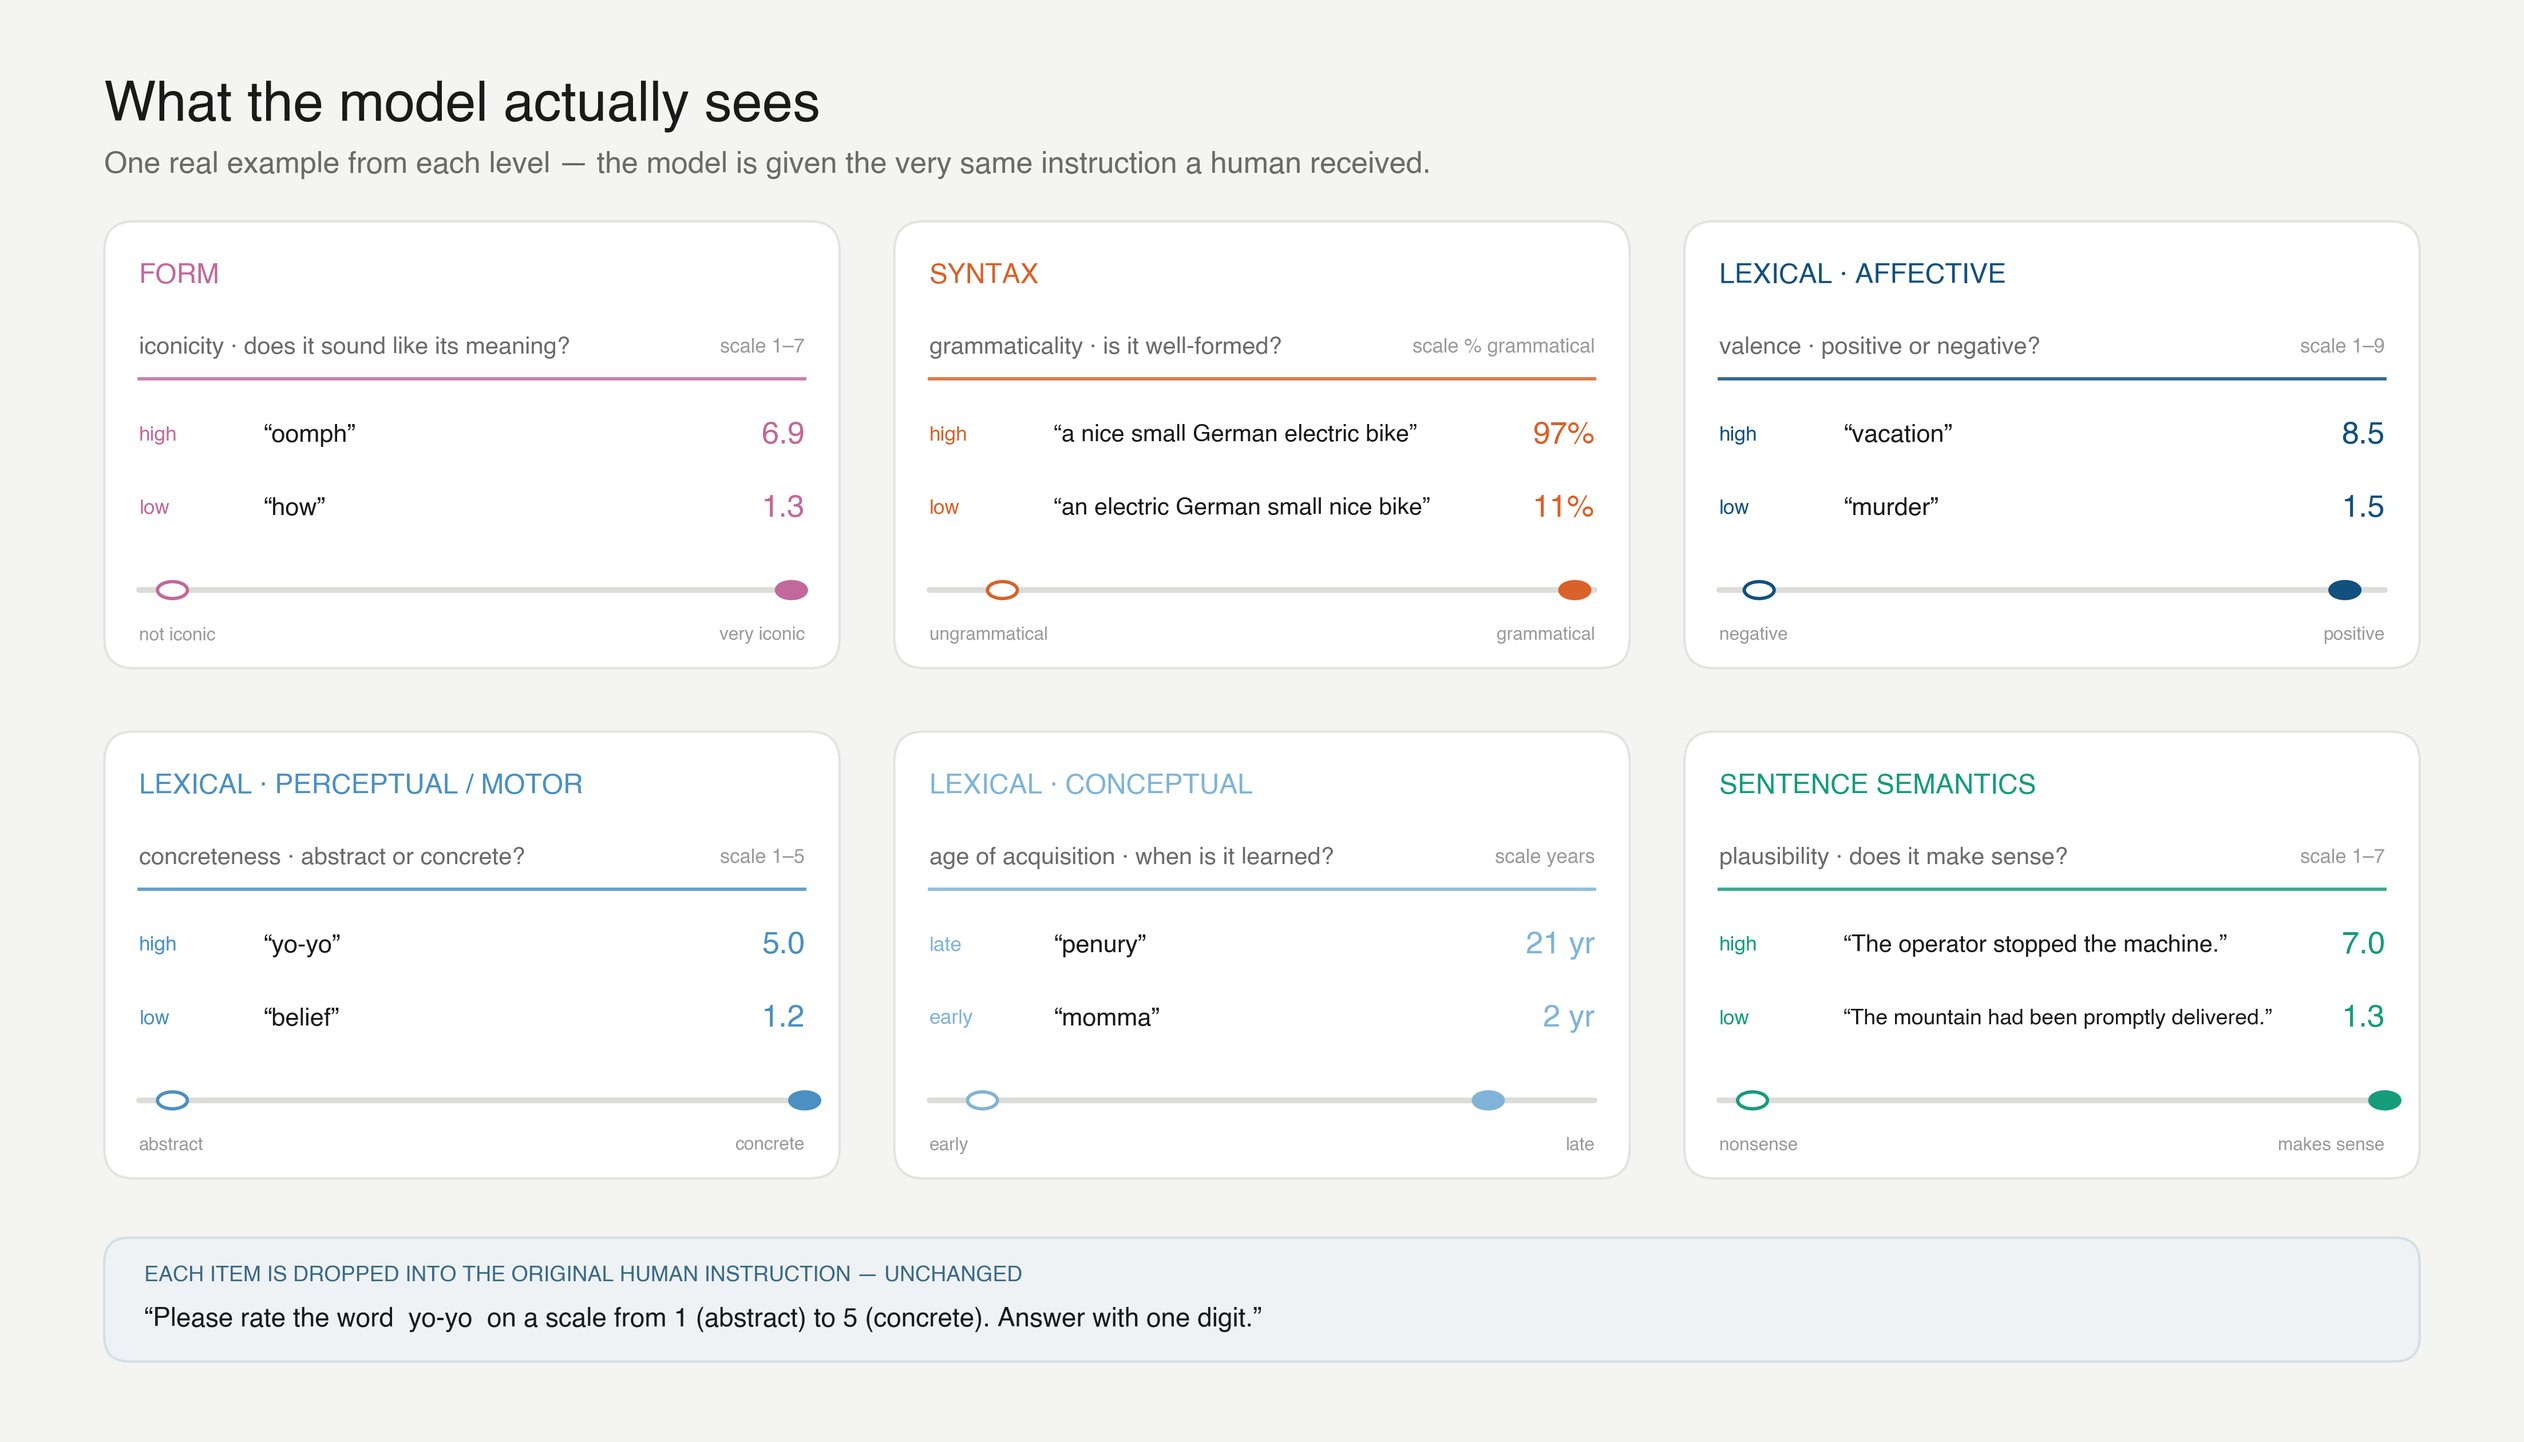
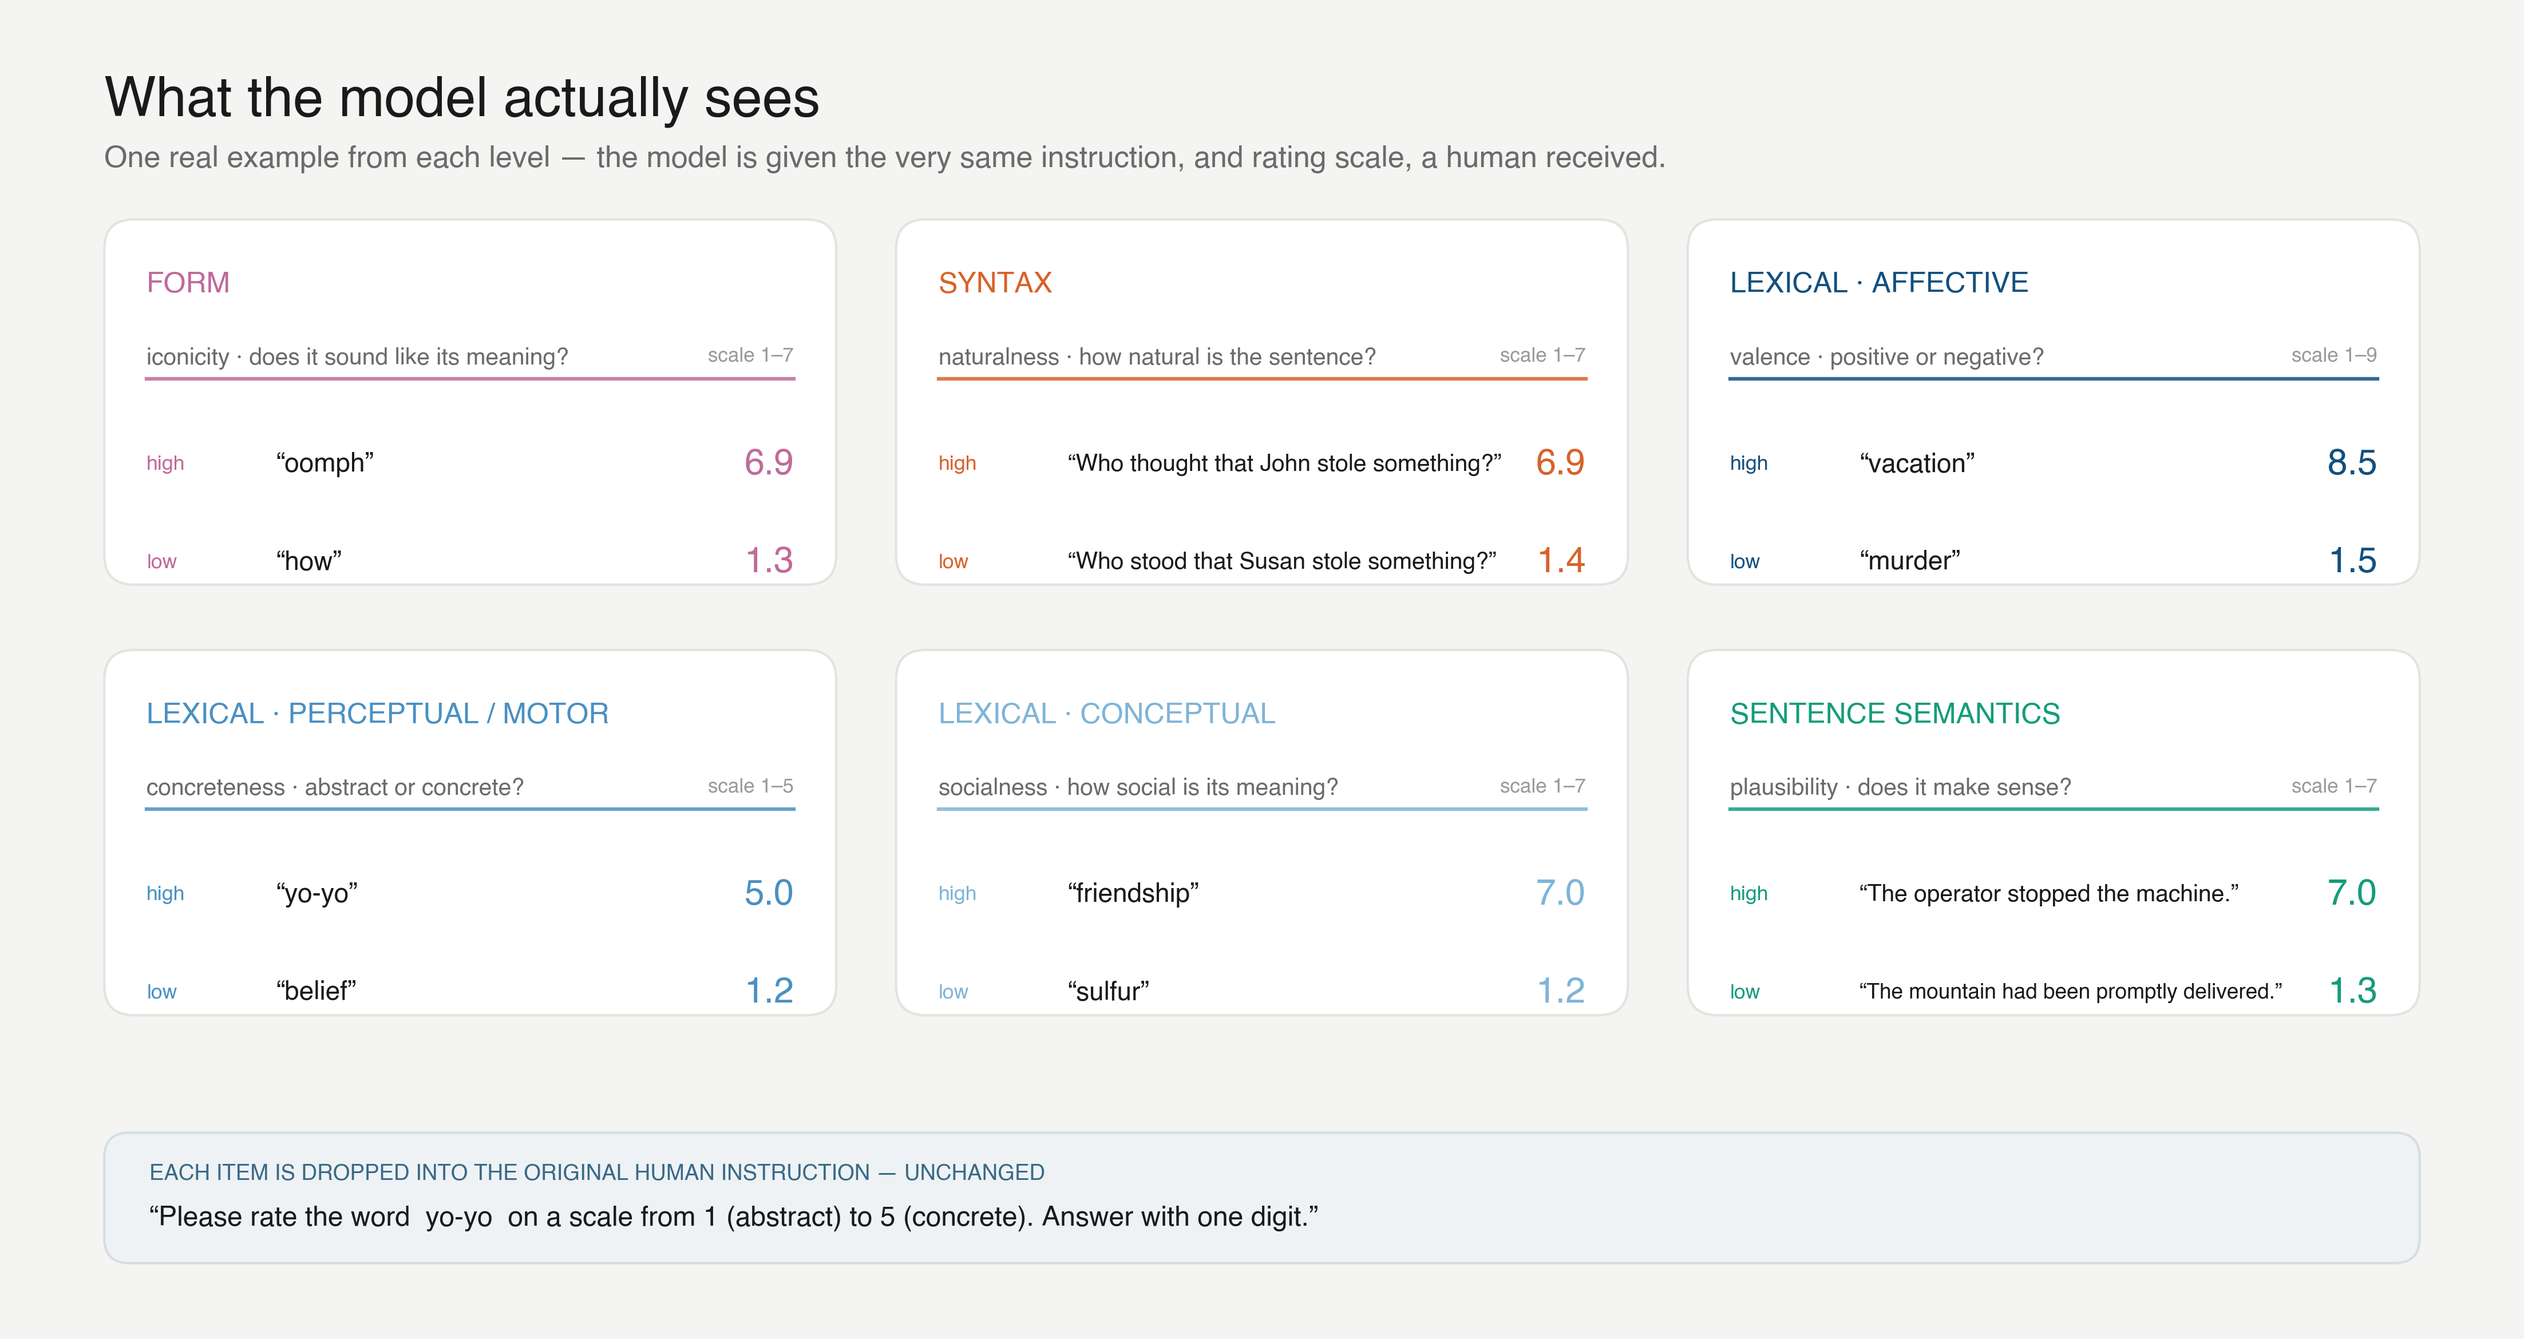
Example cards: all 1-N rating scales, simplified (question + pair + mean, no meter bar)
Swap the two non-Likert examples: syntax -> 1-7 naturalness (verb-complementation
violation, n=50), conceptual -> 1-7 socialness. Remove the scale-bar/meter per feedback.

diff --git a/presentation/make_examples.py b/presentation/make_examples.py
@@ -3,96 +3,76 @@ import matplotlib
 matplotlib.use("Agg")
 import matplotlib.pyplot as plt
 from matplotlib import font_manager as fm
-from matplotlib.patches import FancyBboxPatch, Circle
+from matplotlib.patches import FancyBboxPatch
 HERE=os.path.dirname(os.path.abspath(__file__))
 SANS="Helvetica" if "Helvetica" in {f.name for f in fm.fontManager.ttflist} else "Arial"
 INK="#1a1a1a"; MUT="#6b6b6b"; FAINT="#9a9a9a"; CARD="#ffffff"; BORDER="#e3e3df"; PAGE="#f4f4f2"
 plt.rcParams.update({"font.family":SANS,"pdf.fonttype":42,"svg.fonttype":"none"})
 
-# domain -> color (matches the other figures)
 COL={"Form":"#C1699B","Syntax":"#D8622A","Affective":"#12507F",
      "Perceptual / motor":"#4A90C2","Conceptual":"#7FB4D8","Sentence semantics":"#159C7B"}
 
-# examples in figure order (Form, Syntax, then 3 Lexical, then Sentence semantics)
+# all examples on 1–N rating scales; each card: short question + high/low pair + mean score
 EX=[
  dict(name="FORM",color=COL["Form"],dim="iconicity · does it sound like its meaning?",scale="1–7",
-      hi=("high","“oomph”","6.9",0.98), lo=("low","“how”","1.3",0.05), ends=("not iconic","very iconic")),
- dict(name="SYNTAX",color=COL["Syntax"],dim="grammaticality · is it well-formed?",scale="% grammatical",
-      hi=("high","“a nice small German electric bike”","97%",0.97),
-      lo=("low","“an electric German small nice bike”","11%",0.11), ends=("ungrammatical","grammatical")),
+      hi=("high","“oomph”","6.9"), lo=("low","“how”","1.3")),
+ dict(name="SYNTAX",color=COL["Syntax"],dim="naturalness · how natural is the sentence?",scale="1–7",
+      hi=("high","“Who thought that John stole something?”","6.9"),
+      lo=("low","“Who stood that Susan stole something?”","1.4")),
  dict(name="LEXICAL · AFFECTIVE",color=COL["Affective"],dim="valence · positive or negative?",scale="1–9",
-      hi=("high","“vacation”","8.5",0.94), lo=("low","“murder”","1.5",0.06), ends=("negative","positive")),
+      hi=("high","“vacation”","8.5"), lo=("low","“murder”","1.5")),
  dict(name="LEXICAL · PERCEPTUAL / MOTOR",color=COL["Perceptual / motor"],dim="concreteness · abstract or concrete?",scale="1–5",
-      hi=("high","“yo-yo”","5.0",1.0), lo=("low","“belief”","1.2",0.05), ends=("abstract","concrete")),
- dict(name="LEXICAL · CONCEPTUAL",color=COL["Conceptual"],dim="age of acquisition · when is it learned?",scale="years",
-      hi=("late","“penury”","21 yr",0.84), lo=("early","“momma”","2 yr",0.08), ends=("early","late")),
+      hi=("high","“yo-yo”","5.0"), lo=("low","“belief”","1.2")),
+ dict(name="LEXICAL · CONCEPTUAL",color=COL["Conceptual"],dim="socialness · how social is its meaning?",scale="1–7",
+      hi=("high","“friendship”","7.0"), lo=("low","“sulfur”","1.2")),
  dict(name="SENTENCE SEMANTICS",color=COL["Sentence semantics"],dim="plausibility · does it make sense?",scale="1–7",
-      hi=("high","“The operator stopped the machine.”","7.0",1.0),
-      lo=("low","“The mountain had been promptly delivered.”","1.3",0.05), ends=("nonsense","makes sense")),
+      hi=("high","“The operator stopped the machine.”","7.0"),
+      lo=("low","“The mountain had been promptly delivered.”","1.3")),
 ]
 
-fig=plt.figure(figsize=(14.5,8.2)); fig.patch.set_facecolor(PAGE)
+fig=plt.figure(figsize=(14.5,7.6)); fig.patch.set_facecolor(PAGE)
 ax=fig.add_axes([0,0,1,1]); ax.set_xlim(0,1); ax.set_ylim(0,1); ax.axis("off")
 
-# title
 ax.text(0.035,0.955,"What the model actually sees",fontsize=23,weight="bold",color=INK,va="top")
-ax.text(0.035,0.905,"One real example from each level — the model is given the very same instruction a human received.",
+ax.text(0.035,0.902,"One real example from each level — the model is given the very same instruction, and rating scale, a human received.",
         fontsize=12.5,color=MUT,va="top")
 
-# grid geometry
-L,R=0.035,0.965; cols=3; cgap=0.022
+L,R=0.035,0.965; cols=3; cgap=0.024
 cw=(R-L-(cols-1)*cgap)/cols
-top,bot=0.855,0.175; rgap=0.045; ch=(top-bot-rgap)/2
+top,bot=0.845,0.235; rgap=0.05; ch=(top-bot-rgap)/2
 def card_xy(i):
-    r,c=divmod(i,cols)
-    x=L+c*(cw+cgap); y=top-ch-r*(ch+rgap)
-    return x,y
+    r,c=divmod(i,cols); return L+c*(cw+cgap), top-ch-r*(ch+rgap)
 
 def draw(i,e):
-    x,y=card_xy(i)
+    x,y=card_xy(i); asp=fig.get_figwidth()/fig.get_figheight()
     ax.add_patch(FancyBboxPatch((x,y),cw,ch,boxstyle="round,pad=0,rounding_size=0.012",
-                 mutation_aspect=fig.get_figwidth()/fig.get_figheight(),
-                 fc=CARD,ec=BORDER,lw=1.0,zorder=1))
-    pad=0.014; ix=x+pad; iw=cw-2*pad; cy=y+ch-0.030
-    # domain name
-    ax.text(ix,cy,e["name"],fontsize=11.5,weight="bold",color=e["color"],va="top")
-    cy-=0.052
-    ax.text(ix,cy,e["dim"],fontsize=10,color=MUT,va="top")
-    cy-=0.020
-    ax.text(ix+iw,cy+0.019,"scale "+e["scale"],fontsize=8.3,color=FAINT,va="top",ha="right")
-    # rule
-    cy-=0.010
-    ax.plot([ix,ix+iw],[cy,cy],color=e["color"],lw=1.4,alpha=0.85,zorder=2)
-    cy-=0.040
-    # example rows
-    for lab,txt,score,pos in (e["hi"],e["lo"]):
-        tfs = 9.0 if len(txt)>36 else (9.9 if len(txt)>24 else 10.4)
-        ax.text(ix,cy,lab,fontsize=8.5,weight="bold",color=e["color"],va="center",ha="left")
-        ax.text(ix+0.050,cy,txt,fontsize=tfs,color=INK,va="center",ha="left")
-        ax.text(ix+iw,cy,score,fontsize=13,weight="bold",color=e["color"],va="center",ha="right")
-        cy-=0.052
-    # mini scale bar
-    cy-=0.006
-    bx0,bx1=ix,ix+iw
-    ax.plot([bx0,bx1],[cy,cy],color="#dcdcd8",lw=2.4,solid_capstyle="round",zorder=2)
-    for (lab,txt,score,pos),filled in ((e["hi"],True),(e["lo"],False)):
-        px=bx0+pos*(bx1-bx0)
-        ax.add_patch(Circle((px,cy),0.006,fc=(e["color"] if filled else "#ffffff"),
-                     ec=e["color"],lw=1.4,zorder=3,transform=ax.transData))
-    ax.text(bx0,cy-0.026,e["ends"][0],fontsize=7.6,color=FAINT,va="top",ha="left")
-    ax.text(bx1,cy-0.026,e["ends"][1],fontsize=7.6,color=FAINT,va="top",ha="right")
+                 mutation_aspect=asp,fc=CARD,ec=BORDER,lw=1.0,zorder=1))
+    pad=0.017; ix=x+pad; iw=cw-2*pad; cy=y+ch-0.040
+    ax.text(ix,cy,e["name"],fontsize=12,weight="bold",color=e["color"],va="top")
+    cy-=0.058
+    ax.text(ix,cy,e["dim"],fontsize=9.8,color=MUT,va="top")
+    ax.text(ix+iw,cy,"scale "+e["scale"],fontsize=8.4,color=FAINT,va="top",ha="right")
+    cy-=0.024
+    ax.plot([ix,ix+iw],[cy,cy],color=e["color"],lw=1.5,alpha=0.85,zorder=2)
+    cy-=0.066
+    for lab,txt,score in (e["hi"],e["lo"]):
+        tfs = 8.9 if len(txt)>40 else (9.8 if len(txt)>26 else 11)
+        ax.text(ix,cy,lab,fontsize=8.6,weight="bold",color=e["color"],va="center",ha="left")
+        ax.text(ix+0.052,cy,txt,fontsize=tfs,color=INK,va="center",ha="left")
+        ax.text(ix+iw,cy,score,fontsize=15,weight="bold",color=e["color"],va="center",ha="right")
+        cy-=0.075
 
 for i,e in enumerate(EX): draw(i,e)
 
 # footer: instruction-adaptation callout
-fy=0.045; fh=0.088
+fy=0.045; fh=0.10
 ax.add_patch(FancyBboxPatch((L,fy),R-L,fh,boxstyle="round,pad=0,rounding_size=0.010",
              mutation_aspect=fig.get_figwidth()/fig.get_figheight(),fc="#eef2f5",ec="#d5dee4",lw=1.0,zorder=1))
-ax.text(L+0.016,fy+fh-0.020,"EACH ITEM IS DROPPED INTO THE ORIGINAL HUMAN INSTRUCTION — UNCHANGED",
-        fontsize=9,weight="bold",color="#3a6a86",va="top")
-ax.text(L+0.016,fy+0.030,
+ax.text(L+0.018,fy+fh-0.024,"EACH ITEM IS DROPPED INTO THE ORIGINAL HUMAN INSTRUCTION — UNCHANGED",
+        fontsize=9.2,weight="bold",color="#3a6a86",va="top")
+ax.text(L+0.018,fy+0.034,
         "“Please rate the word  yo-yo  on a scale from 1 (abstract) to 5 (concrete). Answer with one digit.”",
-        fontsize=11,color=INK,va="center",style="italic")
+        fontsize=11.5,color=INK,va="center",style="italic")
 
 fig.savefig(f"{HERE}/fig_examples.png",dpi=300,facecolor=PAGE,bbox_inches="tight")
 fig.savefig(f"{HERE}/fig_examples.pdf",facecolor=PAGE,bbox_inches="tight")
